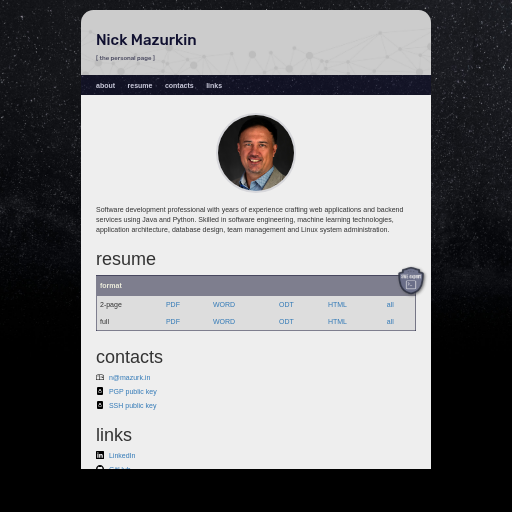
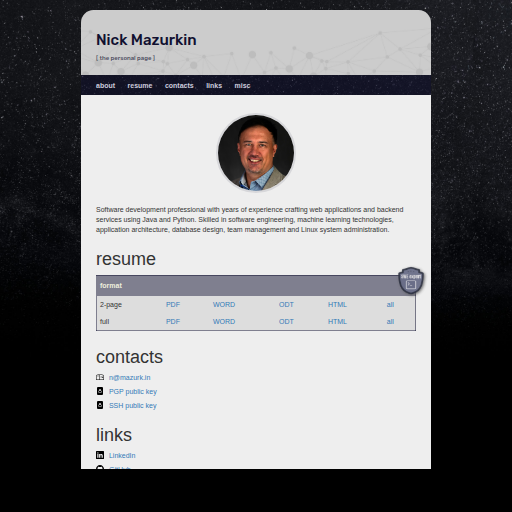
update

diff --git a/README.html b/README.html
@@ -4,7 +4,7 @@
   <meta charset="utf-8" />
   <meta name="generator" content="pandoc" />
   <meta name="viewport" content="width=device-width, initial-scale=1.0, user-scalable=yes" />
-  <meta name="dcterms.date" content="2025-03-28" />
+  <meta name="dcterms.date" content="2026-01-08" />
   <title>Nick Mazurkin – the personal page</title>
   <style>
     code{white-space: pre-wrap;}
@@ -51,7 +51,7 @@
 <header id="title-block-header">
 <h1 class="title">Nick Mazurkin</h1>
 <p class="subtitle">[ the personal page ]</p>
-<p class="date">2025-03-28</p>
+<p class="date">2026-01-08</p>
 </header>
 <nav id="TOC" role="doc-toc">
 <ul>
@@ -59,6 +59,7 @@
 <li><a href="#resume">resume</a></li>
 <li><a href="#contacts">contacts</a></li>
 <li><a href="#links">links</a></li>
+<li><a href="#misc">misc</a></li>
 </ul>
 </nav>
 <section id="about" class="level1">
@@ -119,9 +120,15 @@ document.write('<a h'+'ref'+'="ma'+'ilto'+':'+e+'" clas'+'s="em' + 'ail">'+e+'<\
 <ul>
 <li><img src="/i/ext/linkedin.svg" alt="LinkedIn page"> <a href="https://www.linkedin.com/in/mazurkin">LinkedIn</a></li>
 <li><img src="/i/ext/github.svg" alt="GitHub page"> <a href="https://github.com/mazurkin">GitHub</a></li>
+<li><img src="/i/ext/huggingface.svg" alt="HuggingFace page"> <a href="https://huggingface.co/mazurkin">HuggingFace</a></li>
+<li><img src="/i/icon/newspaper.svg" alt="Blog"> <a href="https://github.com/mazurkin/mazurkin.github.io/wiki">Blog</a></li>
+</ul>
+</section>
+<section id="misc" class="level1">
+<h1>misc</h1>
+<ul>
 <li><img src="/i/ext/paypal.svg" alt="PayPal account"> <a href="https://paypal.me/mazurkin?country.x=US&amp;locale.x=en_USn">PayPal</a></li>
 <li><img src="/i/icon/bank.svg" alt="Venmo account"> <a href="https://account.venmo.com/u/mazurkin">Venmo</a></li>
-<li><img src="/i/icon/newspaper.svg" alt="Blog"> <a href="https://github.com/mazurkin/mazurkin.github.io/wiki">Blog</a></li>
 </ul>
 </section>
 <script>

diff --git a/README.css b/README.css
@@ -150,3 +150,27 @@ section#links ul li a {
     line-height: 20px;
     vertical-align: middle;
 }
+
+/* misc */
+
+section#misc ul {
+    padding-left: 0;
+    list-style-type: none;
+}
+
+section#misc ul li {
+    margin-top: 4px;
+    margin-bottom: 8px;
+}
+
+section#misc ul li img {
+    width: 16px;
+    margin-right: 6px;
+    margin-bottom: 4px;
+    vertical-align: middle;
+}
+
+section#misc ul li a {
+    line-height: 20px;
+    vertical-align: middle;
+}

diff --git a/README.md b/README.md
@@ -28,6 +28,10 @@ team management and Linux system administration.
 
 - <img src="/i/ext/linkedin.svg" alt="LinkedIn page">&nbsp;[LinkedIn](https://www.linkedin.com/in/mazurkin)
 - <img src="/i/ext/github.svg" alt="GitHub page">&nbsp;[GitHub](https://github.com/mazurkin)
+- <img src="/i/ext/huggingface.svg" alt="HuggingFace page">&nbsp;[HuggingFace](https://huggingface.co/mazurkin)
+- <img src="/i/icon/newspaper.svg" alt="Blog">&nbsp;[Blog](https://github.com/mazurkin/mazurkin.github.io/wiki)
+
+# misc
+
 - <img src="/i/ext/paypal.svg" alt="PayPal account">&nbsp;[PayPal](https://paypal.me/mazurkin?country.x=US&locale.x=en_USn)
 - <img src="/i/icon/bank.svg" alt="Venmo account">&nbsp;[Venmo](https://account.venmo.com/u/mazurkin)
-- <img src="/i/icon/newspaper.svg" alt="Blog">&nbsp;[Blog](https://github.com/mazurkin/mazurkin.github.io/wiki)
